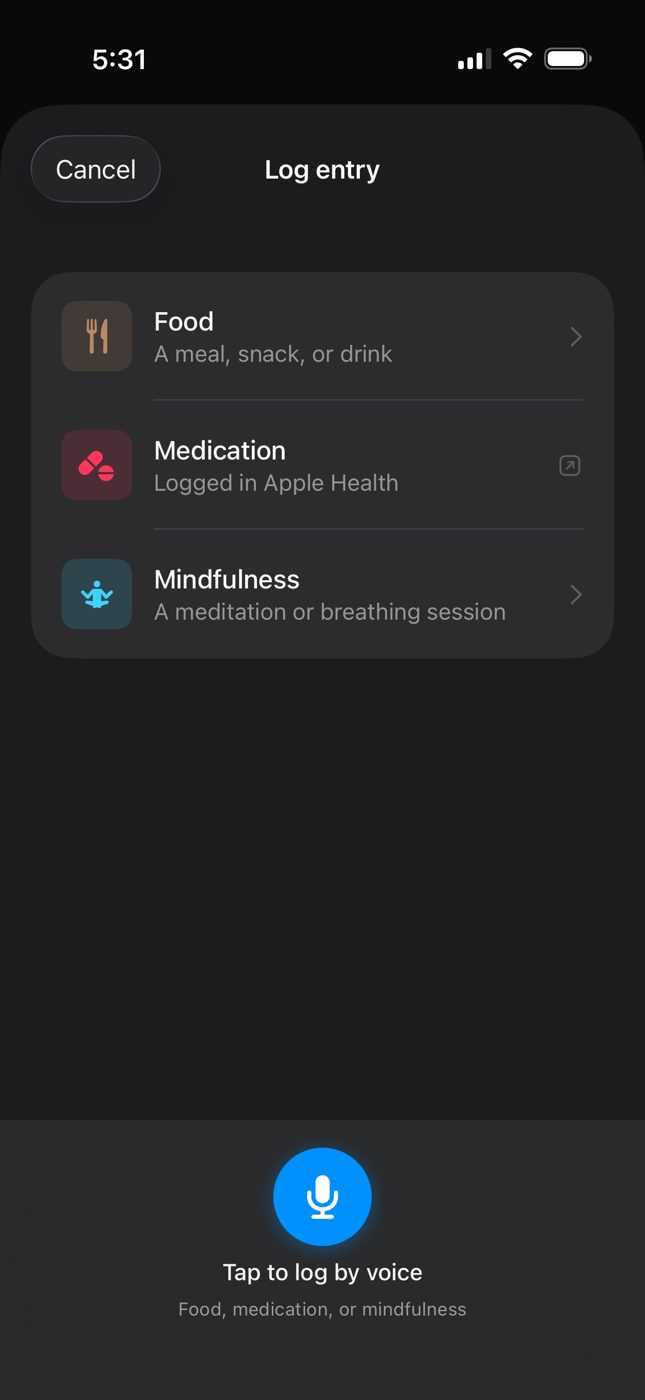
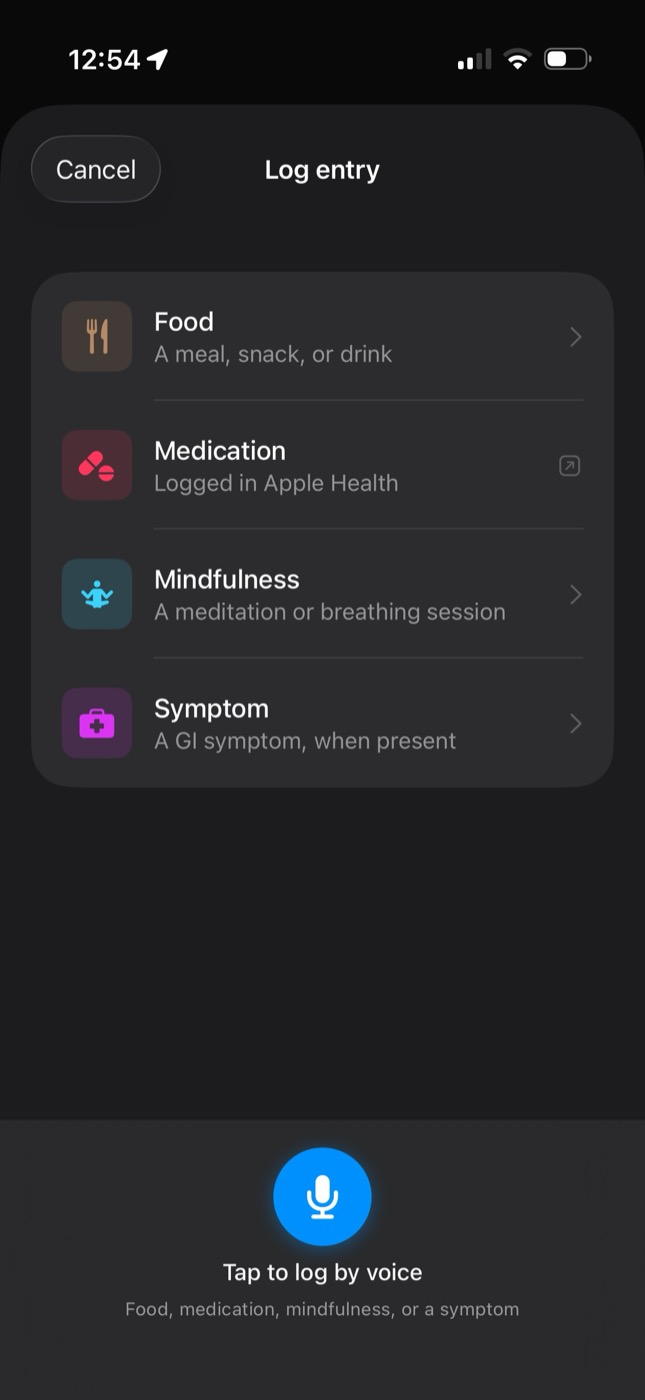
Website: open TestFlight beta + add Today's forecast section
- New Today's forecast section (per-medication, not generic; dark screenshot)
- Contact CTA now joins the public TestFlight beta; roadmap + changelog reflect open beta
- Roadmap: lifestyle-in-forecast card, tightened gut card, neuro-report marked shipped
- FAQ: forecast answer sharpened to per-medication timing; mirrored to Ask-Kampa knowledge
- 3-panel CGM crosshair video + poster, voice-menu, getting-started docs

diff --git a/website/index.html b/website/index.html
@@ -582,6 +582,24 @@
             .cgm-copy p { margin-left: auto; margin-right: auto; }
         }
 
+        /* ── Today's forecast lede — mirrors .cgm-lede, image on the right for rhythm ── */
+        .forecast-lede {
+            display: grid;
+            grid-template-columns: 1fr auto;
+            gap: 64px;
+            align-items: center;
+        }
+        .forecast-lede .phone { width: 285px; }
+        .forecast-copy h3 { margin-bottom: 14px; }
+        .forecast-copy p { font-size: 16px; color: var(--text-2); line-height: 1.65; max-width: 520px; font-weight: 380; margin-bottom: 16px; }
+        .forecast-copy p:last-child { margin-bottom: 0; }
+        .forecast-copy strong { color: var(--text-1); font-weight: 600; }
+        @media (max-width: 760px) {
+            .forecast-lede { grid-template-columns: 1fr; justify-items: center; text-align: center; gap: 36px; }
+            .forecast-copy p { margin-left: auto; margin-right: auto; }
+            .forecast-lede .phone { order: -1; }
+        }
+
         /* ── Dual-signal showcase ── */
         .signal-grid {
             display: grid;
@@ -910,6 +928,7 @@
         .beta-btn:hover {
             filter: brightness(1.08);
         }
+        .cta-row { display: flex; gap: 14px; justify-content: center; flex-wrap: wrap; }
 
         /* ── Footer ── */
         .footer-wrap {
@@ -1142,8 +1161,8 @@
         <p class="section-p" style="margin: 56px 0 26px; max-width: none;">A meal, a dose, a mindfulness session - the things you note yourself, you just say. Kampa transcribes on device, works out what you meant, and files it at the right time. Even "last night at 9 PM" lands on the right day.</p>
         <div class="voice-strip">
             <div class="voice-step">
-                <div class="phone"><img src="images/voice-menu.jpg" alt="Kampa Log entry screen with Food, Medication and Mindfulness, and a Tap to log by voice mic button"></div>
-                <div class="voice-cap"><span class="voice-num">1</span><strong>Start anywhere</strong><span>Tap + and hit the mic - food, medication, or mindfulness</span></div>
+                <div class="phone"><img src="images/voice-menu.jpg" alt="Kampa Log entry screen with Food, Medication, Mindfulness and Symptom, and a Tap to log by voice mic button"></div>
+                <div class="voice-cap"><span class="voice-num">1</span><strong>Start anywhere</strong><span>Tap + and hit the mic - food, medication, mindfulness, or a symptom</span></div>
             </div>
             <div class="voice-step">
                 <div class="phone"><img src="images/voice-speak.jpg" alt="Kampa Speak to log screen transcribing 'I ate blueberries and vanilla ice cream last night at 9 PM'"></div>
@@ -1162,6 +1181,22 @@
     </div>
 </div>
 
+<!-- ── Today's forecast ── -->
+<div class="section-wrap" id="forecast">
+    <div class="forecast-lede">
+        <div class="forecast-copy">
+            <p class="eyebrow">Today's forecast</p>
+            <h3 class="section-h">What to expect today - before it happens.</h3>
+            <p>Kampa learns how <strong>your</strong> doses actually play out - when each one kicks in, how long it holds, when it fades - then runs the rest of your day forward: the ON windows when you're steady, and the OFF windows when you're likely to wear off.</p>
+            <p><strong>Not a textbook drug curve.</strong> Each of your medications gets its own timing - learned from how it actually behaves for you, even how the same dose lands differently in the morning than at night. It tells you what to expect, never what to do - a pattern to plan around and bring to your neurologist, never a dosing instruction.</p>
+        </div>
+        <div class="phone-wrap">
+            <div class="phone"><img src="images/forecast-dark.jpg" alt="Kampa's Today's forecast panel for Tuesday, July 7: a colored timeline showing ON (blue) and OFF (red) windows across the day with a marker at the current time, above the message 'You're likely ON (steady) right now — wearing off expected 3:00 PM to 4:00 PM.'"></div>
+            <div class="phone-glow"></div>
+        </div>
+    </div>
+</div>
+
 <!-- ── Glucose (CGM) ── -->
 <div class="section-wrap">
     <div class="cgm-lede">
@@ -1173,7 +1208,7 @@
             <p class="eyebrow">Glucose</p>
             <h3 class="section-h">On the same timeline.</h3>
             <p>Wear an over-the-counter glucose sensor - Abbott Lingo, Dexcom Stelo, no prescription - and Kampa reads it straight from Apple Health, drawing your glucose curve in its own panel, time-aligned right under your tremor chart.</p>
-            <p><strong>Touch and hold anywhere, and a crosshair sweeps every panel at once</strong> - a dose, a meal, a tremor uptick, and a glucose swing all line up to the same minute. Collapse a panel when you want fewer signals in view. Kampa works fully without a sensor, too.</p>
+            <p><strong>Touch and hold anywhere, and a crosshair sweeps every panel at once</strong> - a dose, a meal, a tremor uptick, an ON/OFF forecast window, and a glucose swing all line up to the same minute. Collapse a panel when you want fewer signals in view. Kampa works fully without a sensor, too.</p>
         </div>
     </div>
 </div>
@@ -1279,6 +1314,27 @@
         <div class="changelog-item">
             <div class="changelog-date">Jul 2026</div>
             <div>
+                <div class="changelog-title">The beta is open</div>
+                <div class="changelog-desc">Kampa is now on <a href="https://testflight.apple.com/join/1Tt8n1ZD" target="_blank" rel="noopener" style="color:var(--blue);text-decoration:none;">TestFlight</a> - if you have an iPhone and an Apple Watch, you can try it yourself: passive tremor and dyskinesia tracking, dose correlation, and your day-ahead forecast, all running on your own data.</div>
+            </div>
+        </div>
+        <div class="changelog-item">
+            <div class="changelog-date">Jul 2026</div>
+            <div>
+                <div class="changelog-title">What to expect today</div>
+                <div class="changelog-desc">Kampa now runs your wearing-off curve forward from the doses you've logged and draws the likely shape of your day - your probable on and off windows - as a band right under your tremor chart. A heads-up for planning the day ahead, never a dosing instruction.</div>
+            </div>
+        </div>
+        <div class="changelog-item">
+            <div class="changelog-date">Jul 2026</div>
+            <div>
+                <div class="changelog-title">Log gut symptoms by voice</div>
+                <div class="changelog-desc">Tap + and say it - "bloated after lunch," "nausea this morning." Kampa saves it to Apple Health and marks it on your timeline, so slow-digestion days sit alongside how your doses landed. Constipation and gut motility are among the most common non-motor patterns in Parkinson's.</div>
+            </div>
+        </div>
+        <div class="changelog-item">
+            <div class="changelog-date">Jul 2026</div>
+            <div>
                 <div class="changelog-title">Glucose, on the same timeline</div>
                 <div class="changelog-desc">Wear an over-the-counter glucose sensor - Abbott Lingo, Dexcom Stelo, no prescription - and Kampa reads it straight from Apple Health and draws your glucose curve in its own panel, time-aligned right under your tremor chart. Touch and hold anywhere and a crosshair sweeps every panel at once, so a dose, a meal, a tremor uptick, and a glucose swing all line up to the same minute. It works fully without a sensor, too.</div>
             </div>
@@ -1329,7 +1385,7 @@
             <div class="changelog-date">Jun 2026</div>
             <div>
                 <div class="changelog-title">Kampa enters private testing</div>
-                <div class="changelog-desc">Kampa is now running on real devices beyond the builder's own, with a small, invitation-only group of testers. Interested in joining? Email <a href="mailto:[email redacted]" style="color:var(--blue);text-decoration:none;">[email redacted]</a>.</div>
+                <div class="changelog-desc">Kampa reaches real devices beyond the builder's own, with a small, invitation-only group of testers.</div>
             </div>
         </div>
         <div class="changelog-item">
@@ -1370,14 +1426,19 @@
     <p class="section-p" style="margin-bottom: 40px;">The foundation is running. The roadmap builds toward a complete picture of how Parkinson's moves through a life.</p>
     <div class="roadmap-grid">
         <div class="roadmap-item">
-            <div class="roadmap-label">In development</div>
-            <div class="roadmap-title">Predictive nudges</div>
-            <p class="roadmap-desc">Proactive wrist alerts built from your own patterns - not generic reminders. "Your typical wear-off is at 4 hours. Your last dose was 3h 50m ago."</p>
+            <div class="roadmap-label">Now underway</div>
+            <div class="roadmap-title">Now in testing</div>
+            <p class="roadmap-desc">Kampa is out on real devices beyond the builder's own, in an open TestFlight beta - validating whether the patterns it surfaces hold across individuals or are deeply personal.</p>
         </div>
         <div class="roadmap-item">
             <div class="roadmap-label">Up next</div>
-            <div class="roadmap-title">Per-medication response</div>
-            <p class="roadmap-desc">Immediate-release levodopa, extended-release, and Mucuna each act on a different curve. Kampa will read dose-response for each one separately - not pooled together.</p>
+            <div class="roadmap-title">Lifestyle in the forecast</div>
+            <p class="roadmap-desc">Today's forecast projects from your logged doses. Next: the lifestyle factors Kampa already surfaces as daily insights - exercise, sleep, HRV - will feed the forward forecast itself, so a hard workout or a short night shifts your expected on and off windows, not just that day's notes.</p>
+        </div>
+        <div class="roadmap-item">
+            <div class="roadmap-label">Exploring</div>
+            <div class="roadmap-title">Deviation alerts</div>
+            <p class="roadmap-desc">The day-ahead forecast already shows your expected on and off windows. A deviation alert would watch your live tremor against that forecast and speak up only when today diverges from your own pattern - wearing off earlier than usual, say - never a generic "you're due" reminder.</p>
         </div>
         <div class="roadmap-item">
             <div class="roadmap-label">Roadmap</div>
@@ -1392,12 +1453,7 @@
         <div class="roadmap-item">
             <div class="roadmap-label">Roadmap</div>
             <div class="roadmap-title">Gut - absorption patterns</div>
-            <p class="roadmap-desc">Constipation is among the most common non-motor symptoms in Parkinson's, and gut motility shapes how levodopa is absorbed. Kampa will read GI patterns from Apple Health and line them up with dose response.</p>
-        </div>
-        <div class="roadmap-item">
-            <div class="roadmap-label">Now underway</div>
-            <div class="roadmap-title">Small testing group</div>
-            <p class="roadmap-desc">Kampa is now on real devices beyond the builder's own, with a small invitation-only group - validating whether the patterns it surfaces are consistent across individuals or deeply personal.</p>
+            <p class="roadmap-desc">You already log gut symptoms by voice. Next, Kampa lines them up against dose response - because gut motility shapes how well levodopa is absorbed.</p>
         </div>
     </div>
 </div>
@@ -1405,31 +1461,21 @@
 <!-- ── Contact ── -->
 <div class="contact-wrap">
     <div class="contact-inner">
-        <h2 class="contact-h">Interested in Kampa?</h2>
-        <p class="contact-p">Want testing access, to collaborate on research, or to share clinical feedback?</p>
-        <a href="mailto:[email redacted]?subject=Requesting%20TestFlight%20access%20for%20Kampa&amp;body=Hi%20-%20I%20would%20like%20to%20join%20the%20Kampa%20TestFlight%20beta.%0D%0A%0D%0AMy%20iPhone%3A%20___%20(iOS%20___)%0D%0AMy%20Apple%20Watch%3A%20___%20(watchOS%20___)" class="email-btn">
-            <svg width="17" height="17" viewBox="0 0 24 24" fill="none" stroke="currentColor" stroke-width="2"><path d="M4 4h16c1.1 0 2 .9 2 2v12c0 1.1-.9 2-2 2H4c-1.1 0-2-.9-2-2V6c0-1.1.9-2 2-2z"/><polyline points="22,6 12,12 2,6"/></svg>
-            Request beta access
-        </a>
+        <h2 class="contact-h">The beta is open.</h2>
+        <p class="contact-p">Try Kampa on your own iPhone and Apple Watch - or reach out to collaborate on research or share clinical feedback.</p>
+        <div class="cta-row">
+            <a href="https://testflight.apple.com/join/1Tt8n1ZD" target="_blank" rel="noopener" class="beta-btn">
+                <svg width="17" height="17" viewBox="0 0 24 24" fill="currentColor"><path d="M12 2.5 21.5 20H2.5L12 2.5zm0 5L6.6 17.3h10.8L12 7.5z"/></svg>
+                Join the beta on TestFlight
+            </a>
+            <a href="mailto:[email redacted]?subject=Kampa%20-%20collaboration%20%2F%20feedback" class="email-btn">
+                <svg width="17" height="17" viewBox="0 0 24 24" fill="none" stroke="currentColor" stroke-width="2"><path d="M4 4h16c1.1 0 2 .9 2 2v12c0 1.1-.9 2-2 2H4c-1.1 0-2-.9-2-2V6c0-1.1.9-2 2-2z"/><polyline points="22,6 12,12 2,6"/></svg>
+                Get in touch
+            </a>
+        </div>
         <p class="contact-reqs">
             Requires an iPhone on iOS&nbsp;26 (iPhone&nbsp;11 or later, including iPhone&nbsp;SE 2nd gen) and an Apple&nbsp;Watch on watchOS&nbsp;10 (Series&nbsp;4 or later).
         </p>
-        <!-- ════════ STAGED: TestFlight "Join the beta" CTA ════════
-             DO NOT uncomment until build 1 is APPROVED and the public TestFlight link is live.
-             A live "beta is open" CTA with a dead link is worse than no CTA.
-
-             Flip steps (≈one minute):
-               1. Replace TESTFLIGHT_URL below with the real public TestFlight link.
-               2. Delete this comment's opening/closing markers so the <a> renders.
-               3. Optional: change the heading above to "The beta is open." and demote the
-                  email button (swap class to .email-btn-secondary) so the beta button is primary.
-               4. Fire the queued "Kampa is in testing - request access" LinkedIn post (dual moment).
-
-        <a href="TESTFLIGHT_URL" target="_blank" rel="noopener" class="beta-btn">
-            <svg width="17" height="17" viewBox="0 0 24 24" fill="currentColor"><path d="M12 2.5 21.5 20H2.5L12 2.5zm0 5L6.6 17.3h10.8L12 7.5z"/></svg>
-            Join the beta on TestFlight
-        </a>
-        ════════ END STAGED ════════ -->
     </div>
 </div>
 

diff --git a/website/faq.html b/website/faq.html
@@ -166,14 +166,23 @@
         <h3>What does the 0-4 tremor scale mean?</h3>
         <p>It is a None-to-Strong severity estimate produced automatically from your Apple Watch. The labels echo the severity language clinicians use, but the number is a passive estimate from wrist sensing - not a doctor's exam, and not a clinical score. Use it to compare your own days against each other, not to compare yourself against anyone else.</p>
 
+        <h3>How is the tremor line on the chart calculated?</h3>
+        <p>Each point on the line is your typical tremor level over a short window - about ten minutes - so the chart shows how your tremor actually rises and falls through the day rather than one flattened number. When you touch the line, the callout reads that same window, so the number and the curve always agree. The window is kept short on purpose: tremor can change quickly, and a longer average would smooth a real ten-minute surge down below what you felt.</p>
+
+        <h3>Why is the tremor average at the top of the day lower than the peaks on my chart?</h3>
+        <p>The figure beside "Tremor" at the top of Review is a plain average across the entire day, calm hours included. Tremor is often either near zero or clearly elevated, with little time in between - so a whole-day average settles at a level you rarely actually sit at, below your real peaks. Read the chart for the shape of your day; treat the daily average only as a rough way to compare one day against the next.</p>
+
         <h3>Why does my tremor number look different from another app I use?</h3>
-        <p>Different apps measure different things. Kampa's chart shows tremor intensity - how strong the tremor was, hour by hour. Some other apps report duration - how many minutes of tremor occurred. Both are legitimate lenses; a day can have long mild tremor or brief strong tremor. Neither number is wrong; they answer different questions.</p>
+        <p>Different apps measure different things. Kampa's chart shows tremor intensity - how strong the tremor was, through the day. Some other apps report duration - how many minutes of tremor occurred. Both are legitimate lenses; a day can have long mild tremor or brief strong tremor. Neither number is wrong; they answer different questions.</p>
 
         <h3>What is dyskinesia, and why does mine show zero?</h3>
         <p>Dyskinesia refers to involuntary movements that can occur as a side effect of levodopa medication, usually at peak dose. Not everyone experiences it - if you don't, a flat line is the correct reading, not a broken feature. Wrist sensing can also register some ordinary movement as possible dyskinesia, so Kampa is deliberately conservative about what it shows.</p>
 
         <h3>Why do tremor and dyskinesia sometimes look like opposites on the chart?</h3>
         <p>Because pharmacologically they often are. Tremor tends to peak before a dose (medication worn off) and dyskinesia at peak dose. Seeing them rise and fall in opposite rhythm around your doses is the levodopa cycle made visible - many people find this one chart explains their day better than anything else.</p>
+
+        <h3>What is the "what to expect today" forecast?</h3>
+        <p>On today's Review, Kampa projects the likely shape of your day - your probable <strong>on</strong> and <strong>wearing-off</strong> windows - from the doses you've logged and how each of your medications has tended to act for you, learned from your own history rather than a textbook drug curve. It is a heads-up for planning, not a dosing instruction. As always, decisions about medication are for you and your neurologist.</p>
 
         <h3>What is the difference between Observations and Insights?</h3>
         <p>Observations describe today: "Tremor eased 68% in the hour after your 8 AM dose." They are honest descriptions of what co-occurred, not proof of cause. Insights are patterns that hold up across many days and pass statistical checks before you ever see them. Observations are the daily read; Insights are the accumulated evidence.</p>
@@ -212,7 +221,10 @@
         <h2>Logging and voice</h2>
 
         <h3>How does voice logging work?</h3>
-        <p>Say something like "Hey Siri, log coffee with Kampa" or "log a 20 minute meditation." Kampa reads back what it understood and asks you to confirm before saving anything. It was designed for days when typing is hard.</p>
+        <p>The simplest way is inside the app: tap <strong>+</strong> on the Review screen, then speak. Say "5 almonds with tea," "bloated after lunch," or "ten minutes of breathing" and Kampa sorts each into the right place - food, a gut symptom, or a mindfulness session. It reads back what it understood so you can confirm before anything is saved. You can also start food and mindfulness logs hands-free with Siri ("log a 20 minute meditation"). It was designed for days when typing is hard.</p>
+
+        <h3>Can I log gut or digestive symptoms?</h3>
+        <p>Yes. Tap <strong>+</strong> on the Review screen and describe it in plain words ("bloated after lunch," "nausea this morning"). Kampa saves it to Apple Health and marks it on your timeline, so slow-digestion days can be seen alongside how your doses landed.</p>
 
         <h3>Why can't I log a medication dose by voice through Kampa?</h3>
         <p>Apple allows apps to read medication doses from Apple Health but not to write them. Saying "log my meds" opens Apple Health's own medication screen instead. This is an Apple platform rule, and it exists for a good reason - one trusted list of record for something as important as medication.</p>

diff --git a/docs/Kampa-Getting-Started.html b/docs/Kampa-Getting-Started.html
@@ -60,7 +60,7 @@
     </div>
     <div class="eyebrow">
       <div class="k">Getting Started</div>
-      <div class="s">Your first week with Kampa</div>
+      <div class="s">How Kampa works</div>
     </div>
   </div>
 
@@ -83,6 +83,9 @@
   from your iPhone and Watch. Once permissions are on, this happens on its own. Tremor tracking begins after
   about a day of Watch wear, so an empty tremor view at first is normal &mdash; and if your phone still looks
   empty after that, open Kampa on your <b>Apple Watch</b> for about 30 seconds (iPhone nearby) to sync.</p>
+  <p><b>Wear a glucose monitor?</b> Any brand that writes to Apple Health &mdash; Dexcom Stelo, Abbott Lingo,
+  FreeStyle Libre &mdash; is read automatically and shown as its own band on your Review timeline. Nothing to
+  set up beyond the CGM's own app.</p>
 
   <h2>The context that sharpens it &mdash; mostly things you already do</h2>
   <p>Kampa doesn't make you keep a separate logbook - it reads what you already track, so you log the way you
@@ -91,14 +94,18 @@
     <li><b>Medications</b> &mdash; record your doses in <b>Apple Health &rsaquo; Search &rsaquo; Medications</b>.
         Kampa reads them automatically - dose timing is one of its most useful insights.</li>
     <li><b>Workouts</b> &mdash; just start one on your <b>Apple Watch</b> as usual; Kampa picks it up automatically.</li>
-    <li><b>Food</b> &mdash; the one thing you note <em>inside Kampa</em>: tap <b>+</b> on the Review screen and
-        type it plainly ("<em>5 almonds with tea</em>") &mdash; no counting.</li>
+    <li><b>Food, gut symptoms &amp; mindfulness</b> &mdash; the things Health can't capture for you. Tap <b>+</b>
+        on the Review screen and <em>say it</em> in plain words: "<em>5 almonds with tea</em>,"
+        "<em>bloated after lunch</em>," "<em>ten minutes of breathing</em>" &mdash; Kampa sorts each into the
+        right place. Prefer typing? You can. No counting, no forms.</li>
   </ul>
 
   <h2>Reading it</h2>
   <ul>
     <li><b>Review</b> (home) &mdash; your day on one timeline: sleep, tremor, and events (&#128138; medication,
         &#127860; food, &#127939; workout). Use the <b>&lsaquo; &rsaquo;</b> arrows to change days.</li>
+    <li><b>What to expect today</b> &mdash; on today's Review, Kampa projects your likely <em>on</em> and
+        <em>wearing-off</em> windows from the doses you've logged, so you can see the shape of the day ahead.</li>
     <li><b>Insights</b> (&#128161; top-right) &mdash; patterns across weeks and months, each with an honest
         confidence level (<em>Watching &rarr; Emerging &rarr; Strong</em>) and a "discuss with your neurologist"
         note where it matters. The longer you use Kampa, the more it can tell you.</li>

diff --git a/docs/ask-kampa/Kampa-FAQ.md b/docs/ask-kampa/Kampa-FAQ.md
@@ -48,6 +48,10 @@ Dyskinesia refers to involuntary movements that can occur as a side effect of le
 
 Because pharmacologically they often are. Tremor tends to peak before a dose (medication worn off) and dyskinesia at peak dose. Seeing them rise and fall in opposite rhythm around your doses is the levodopa cycle made visible - many people find this one chart explains their day better than anything else.
 
+### What is the "what to expect today" forecast?
+
+On today's Review, Kampa projects the likely shape of your day - your probable on and wearing-off windows - from the doses you've logged and how each of your medications has tended to act for you, learned from your own history rather than a textbook drug curve. It is a heads-up for planning, not a dosing instruction. As always, decisions about medication are for you and your neurologist.
+
 ### What is the difference between Observations and Insights?
 
 Observations describe today: "Tremor eased 68% in the hour after your 8 AM dose." They are honest descriptions of what co-occurred, not proof of cause. Insights are patterns that hold up across many days and pass statistical checks before you ever see them. Observations are the daily read; Insights are the accumulated evidence.
@@ -102,7 +106,11 @@ It stays in your iCloud and your Apple Health store, under your control. Deletin
 
 ### How does voice logging work?
 
-Say something like "Hey Siri, log coffee with Kampa" or "log a 20 minute meditation." Kampa reads back what it understood and asks you to confirm before saving anything. It was designed for days when typing is hard.
+The simplest way is inside the app: tap + on the Review screen, then speak. Say "5 almonds with tea," "bloated after lunch," or "ten minutes of breathing" and Kampa sorts each into the right place - food, a gut symptom, or a mindfulness session. It reads back what it understood so you can confirm before anything is saved. You can also start food and mindfulness logs hands-free with Siri ("log a 20 minute meditation"). It was designed for days when typing is hard.
+
+### Can I log gut or digestive symptoms?
+
+Yes. Tap + on the Review screen and describe it in plain words ("bloated after lunch," "nausea this morning"). Kampa saves it to Apple Health and marks it on your timeline, so slow-digestion days can be seen alongside how your doses landed.
 
 ### Why can't I log a medication dose by voice through Kampa?
 

diff --git a/docs/ask-kampa/netlify/functions/faq-knowledge.md b/docs/ask-kampa/netlify/functions/faq-knowledge.md
@@ -46,6 +46,10 @@ Dyskinesia refers to involuntary movements that can occur as a side effect of le
 
 Because pharmacologically they often are. Tremor tends to peak before a dose (medication worn off) and dyskinesia at peak dose. Seeing them rise and fall in opposite rhythm around your doses is the levodopa cycle made visible - many people find this one chart explains their day better than anything else.
 
+### What is the "what to expect today" forecast?
+
+On today's Review, Kampa projects the likely shape of your day - your probable on and wearing-off windows - from the doses you've logged and how each of your medications has tended to act for you, learned from your own history rather than a textbook drug curve. It is a heads-up for planning, not a dosing instruction. As always, decisions about medication are for you and your neurologist.
+
 ### What is the difference between Observations and Insights?
 
 Observations describe today: "Tremor eased 68% in the hour after your 8 AM dose." They are honest descriptions of what co-occurred, not proof of cause. Insights are patterns that hold up across many days and pass statistical checks before you ever see them. Observations are the daily read; Insights are the accumulated evidence.
@@ -88,7 +92,11 @@ It stays in your iCloud and your Apple Health store, under your control. Deletin
 
 ### How does voice logging work?
 
-Say something like "Hey Siri, log coffee with Kampa" or "log a 20 minute meditation." Kampa reads back what it understood and asks you to confirm before saving anything. It was designed for days when typing is hard.
+The simplest way is inside the app: tap + on the Review screen, then speak. Say "5 almonds with tea," "bloated after lunch," or "ten minutes of breathing" and Kampa sorts each into the right place - food, a gut symptom, or a mindfulness session. It reads back what it understood so you can confirm before anything is saved. You can also start food and mindfulness logs hands-free with Siri ("log a 20 minute meditation"). It was designed for days when typing is hard.
+
+### Can I log gut or digestive symptoms?
+
+Yes. Tap + on the Review screen and describe it in plain words ("bloated after lunch," "nausea this morning"). Kampa saves it to Apple Health and marks it on your timeline, so slow-digestion days can be seen alongside how your doses landed.
 
 ### Why can't I log a medication dose by voice through Kampa?
 